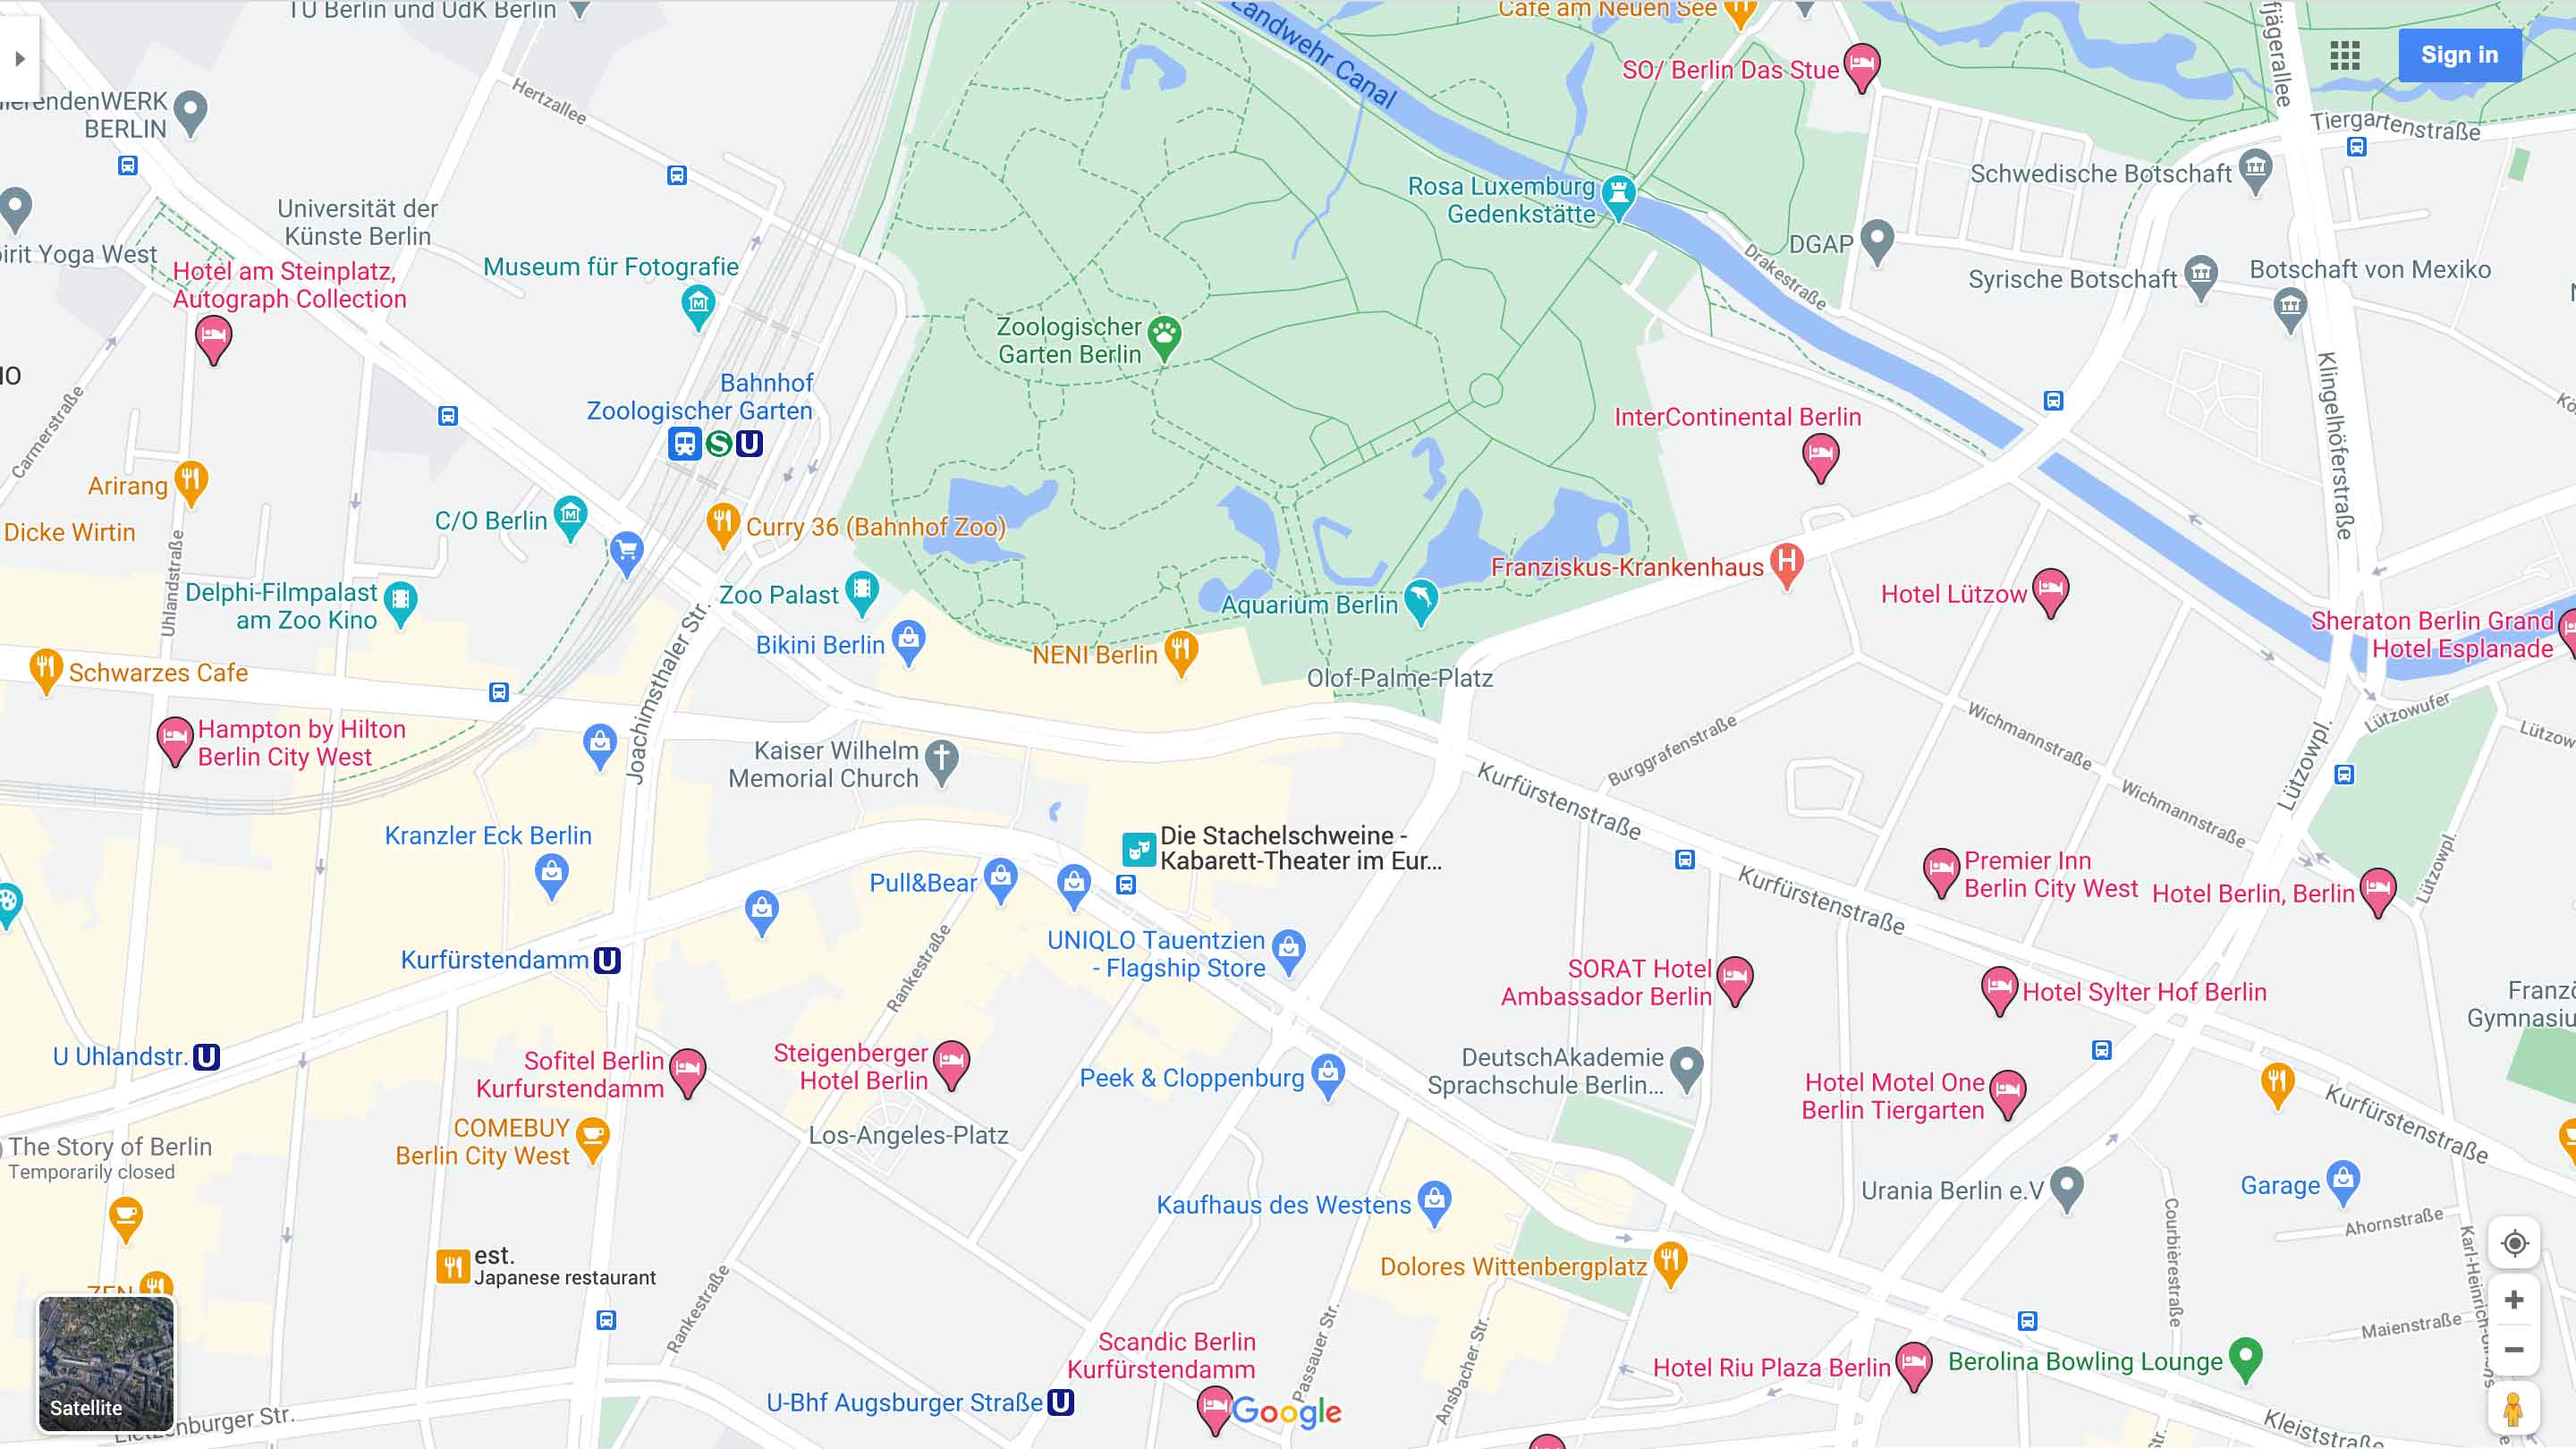
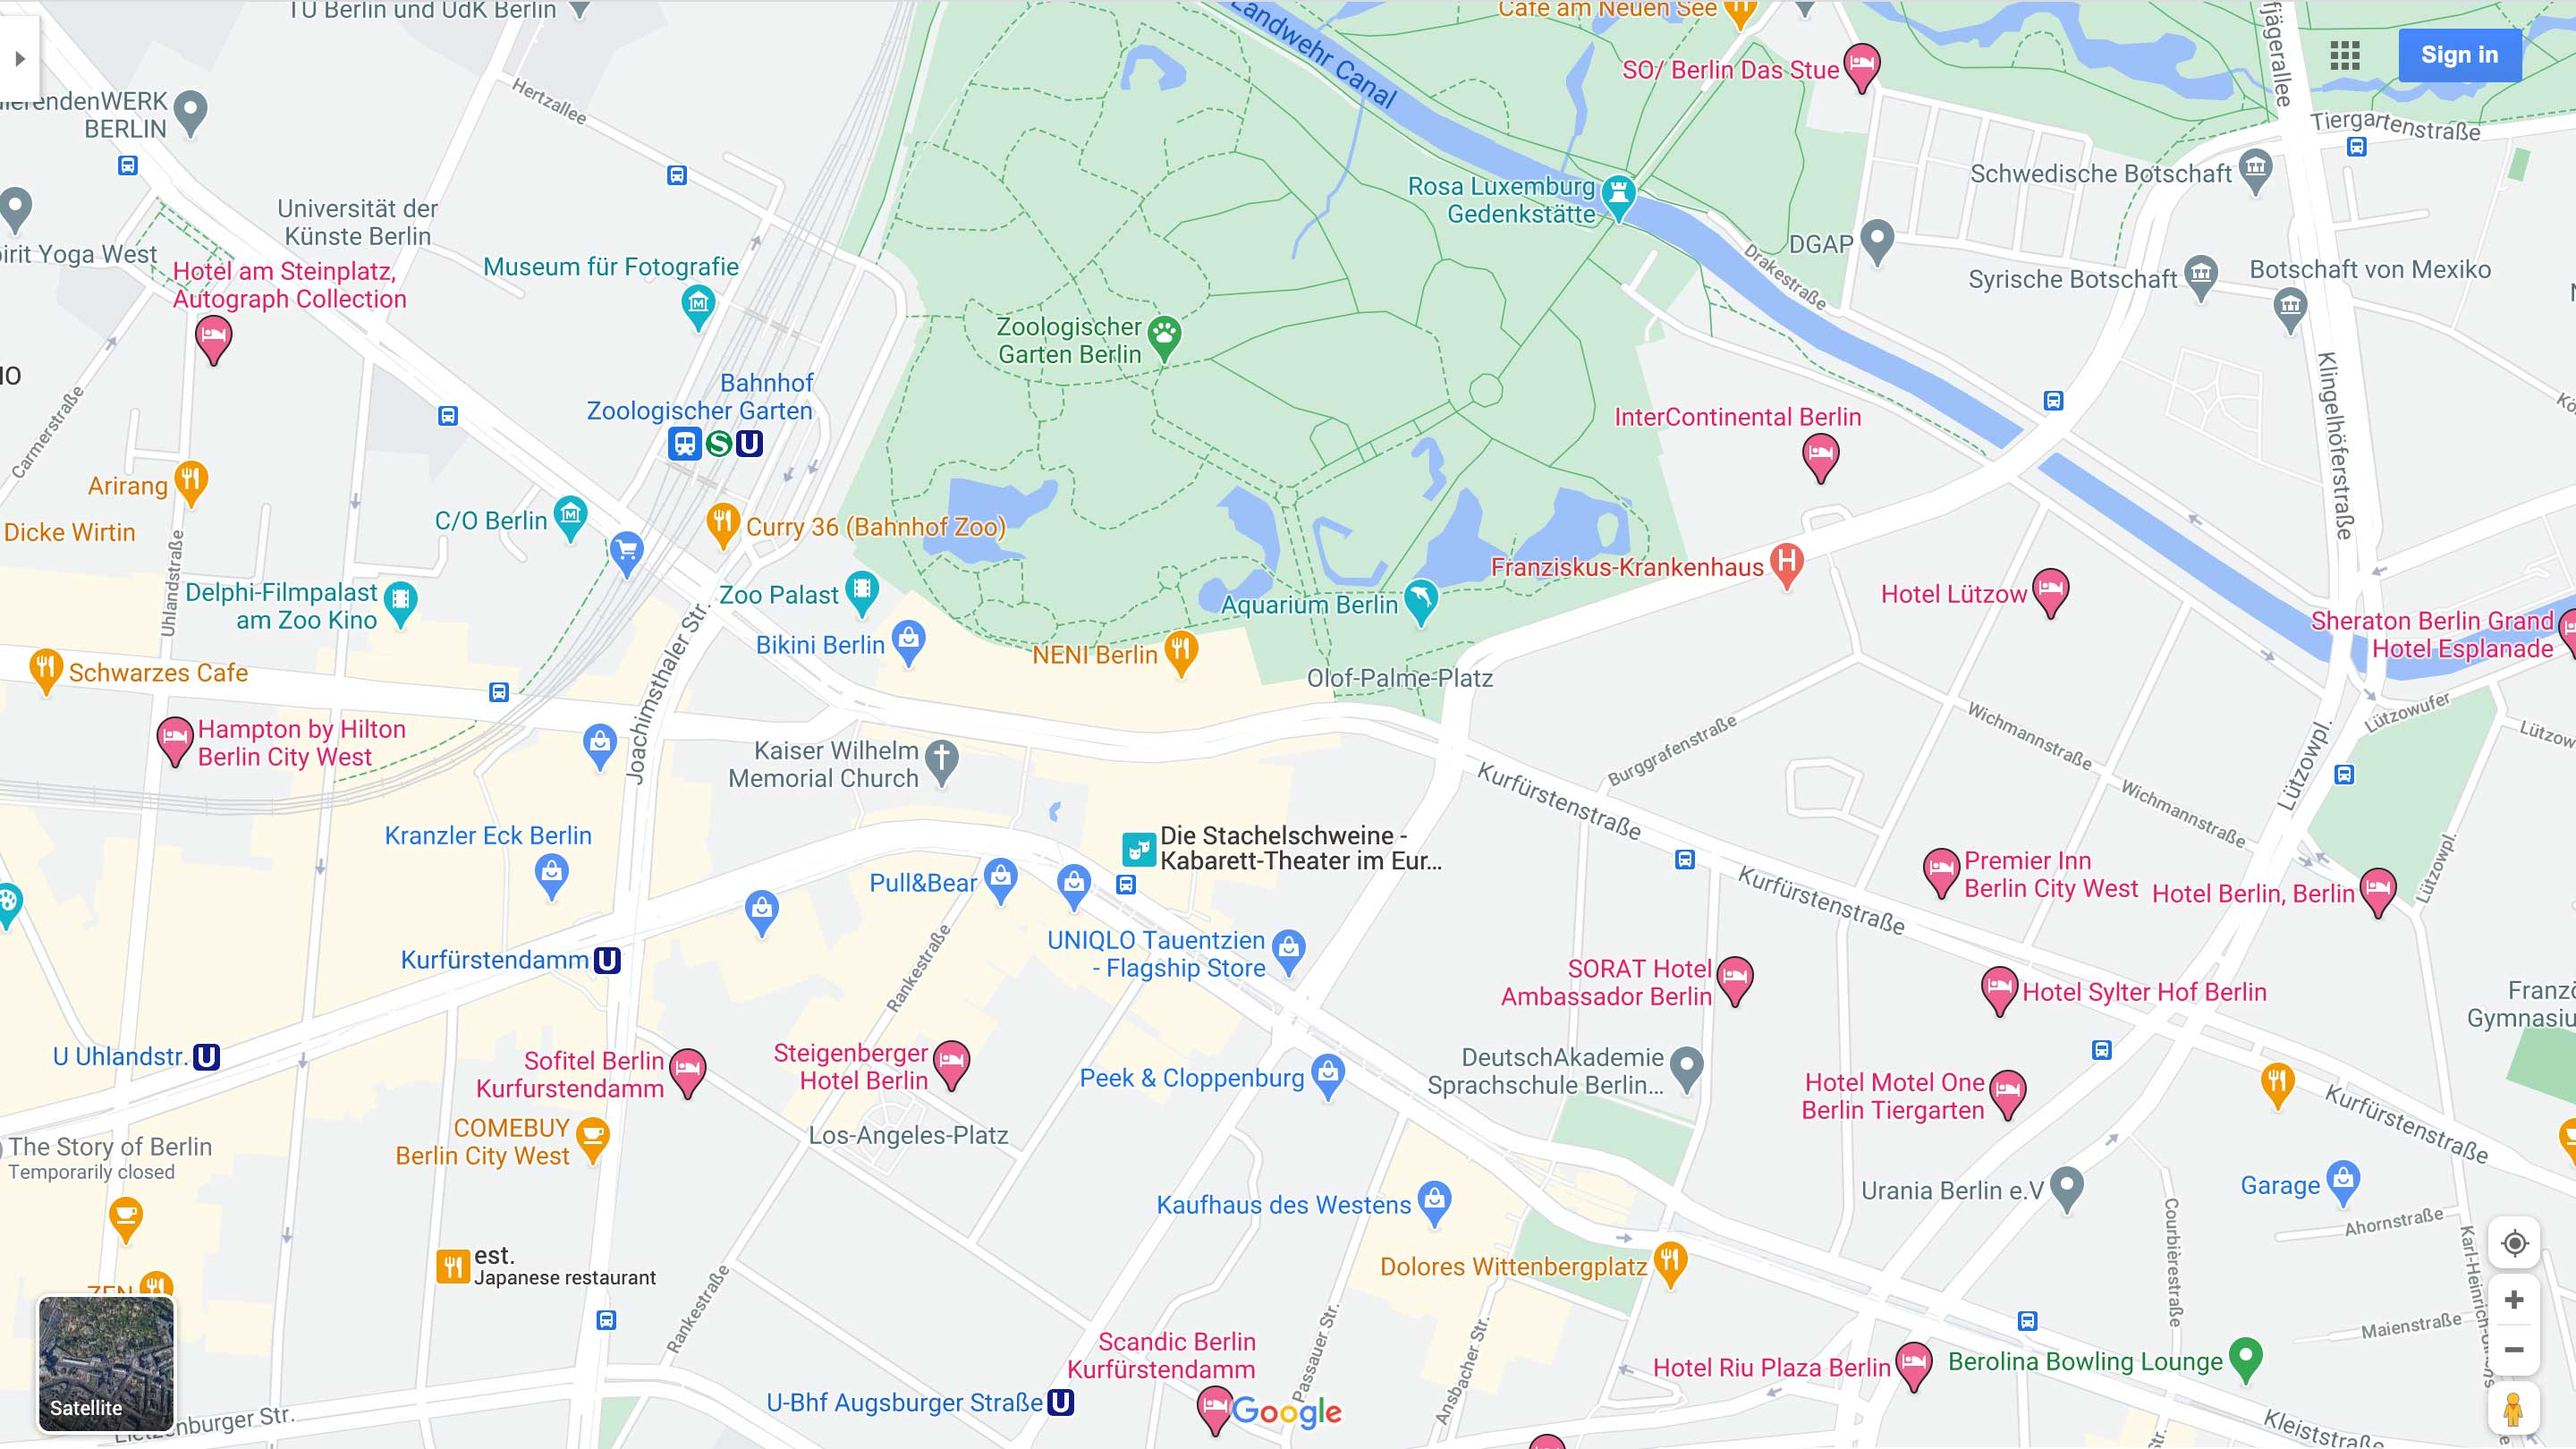
fix: Map files' sizes reduced.

diff --git a/src/Controller.cpp b/src/Controller.cpp
@@ -13,7 +13,7 @@
 int main() {
   // Draw all objects in vector
   Graphics *graphics = new Graphics();
-  graphics->SetBgFilename("../data/berlin-xl-4.png"); 
+  graphics->SetBgFilename("../data/berlin-xl-4.jpg"); 
   graphics->SetBgSize(2880, 1620);
   PublicTransport publicTransport;
   graphics->SetVehicles(publicTransport.GetVehiclesPtr());
